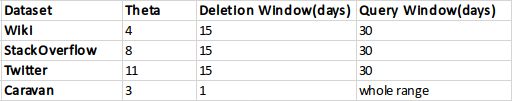
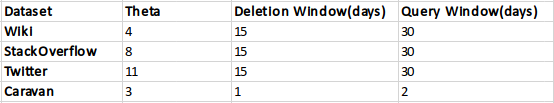
caravan dw changed

diff --git a/index.html b/index.html
@@ -61,7 +61,6 @@
             <img src="images/theta_time_stack.png">
             <img src="images/theta_time_twitter.png">
             <img src="images/theta_time_caravan.png">
-            <img src="images/theta_time_caravan2.png">
         </div>
 
         <div align="middle">
@@ -73,7 +72,6 @@
             <img src="images/dw_time_stack.png">
             <img src="images/dw_time_twitter.png">
             <img src="images/dw_time_caravan.png">
-            <img src="images/dw_time_caravan2.png">
         </div>
 
         <div align="middle">
